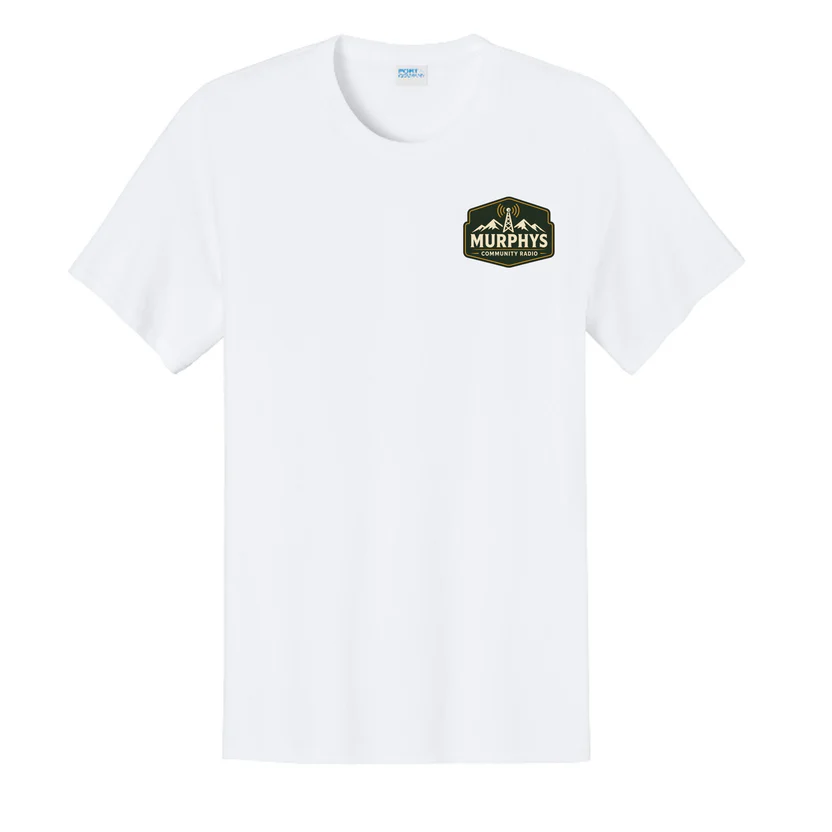
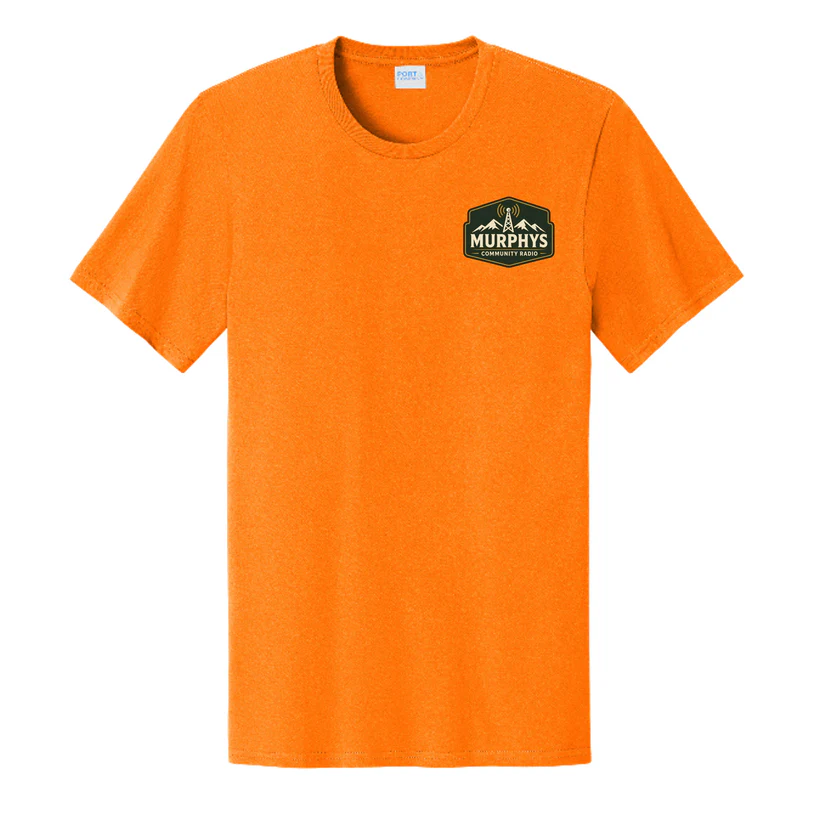
Improve merch image contrast

diff --git a/app/support/page.tsx b/app/support/page.tsx
@@ -141,7 +141,7 @@ export default function SupportPage() {
             >
               <img
                 src="/images/merch/mcr-trucker.webp"
-                alt="MCR Trucker cap"
+                alt="Black MCR Trucker cap"
                 className="aspect-square w-full object-cover transition duration-300 group-hover:scale-105"
               />
               <span className="block px-5 py-4 text-center font-black text-orange-300">
@@ -156,7 +156,7 @@ export default function SupportPage() {
             >
               <img
                 src="/images/merch/mcr-broadcaster.webp"
-                alt="MCR Broadcaster shirt"
+                alt="Tennessee orange MCR Broadcaster shirt"
                 className="aspect-square w-full object-cover transition duration-300 group-hover:scale-105"
               />
               <span className="block px-5 py-4 text-center font-black text-orange-300">